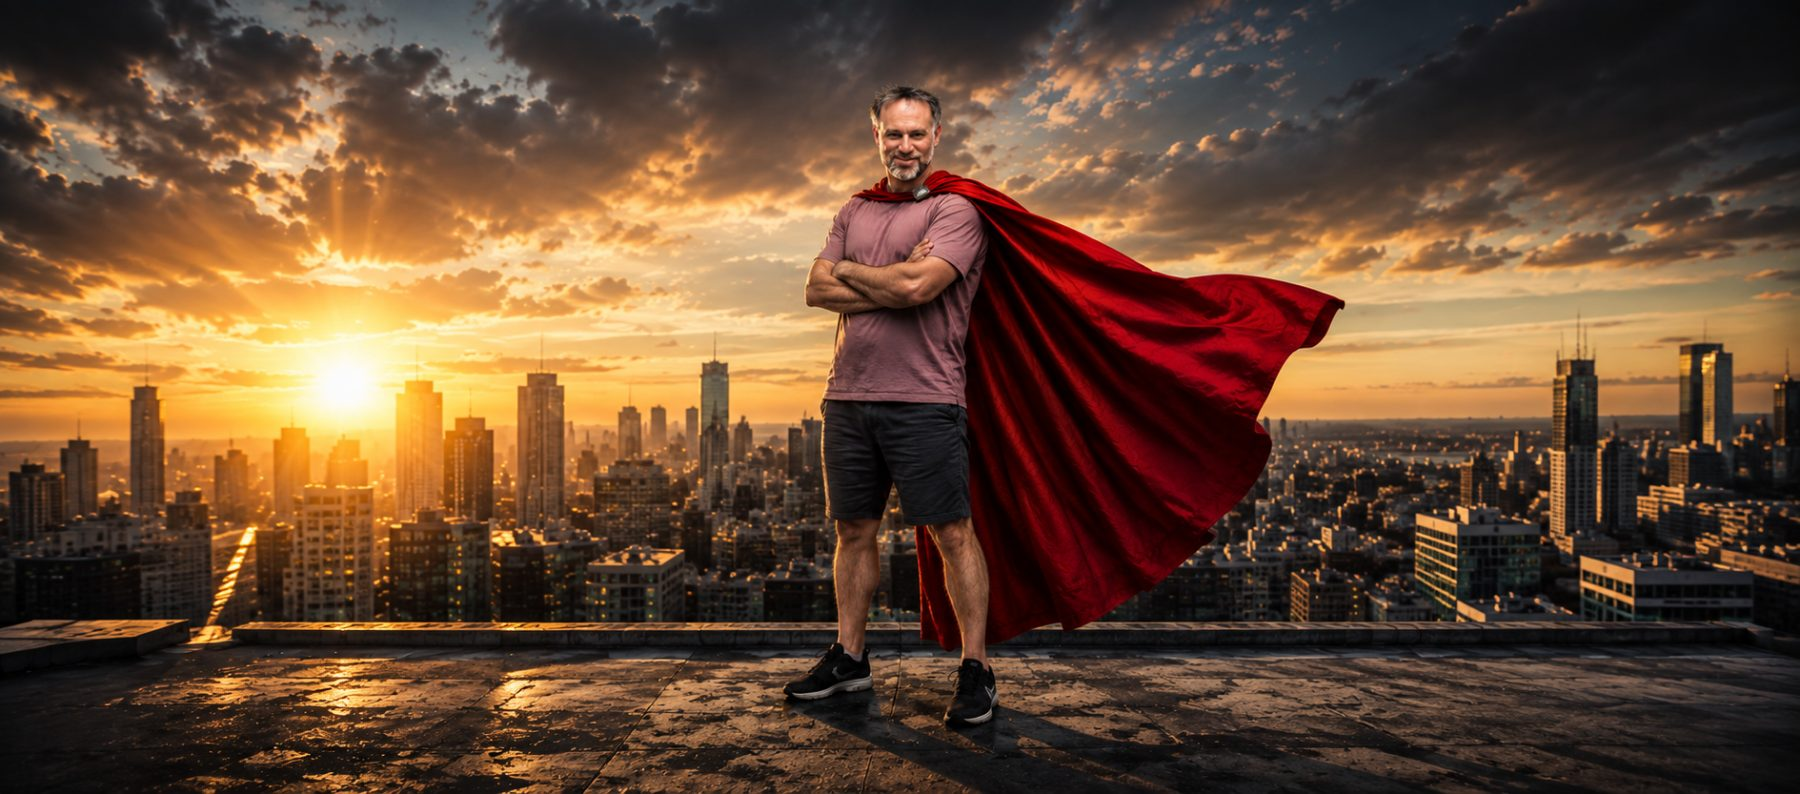
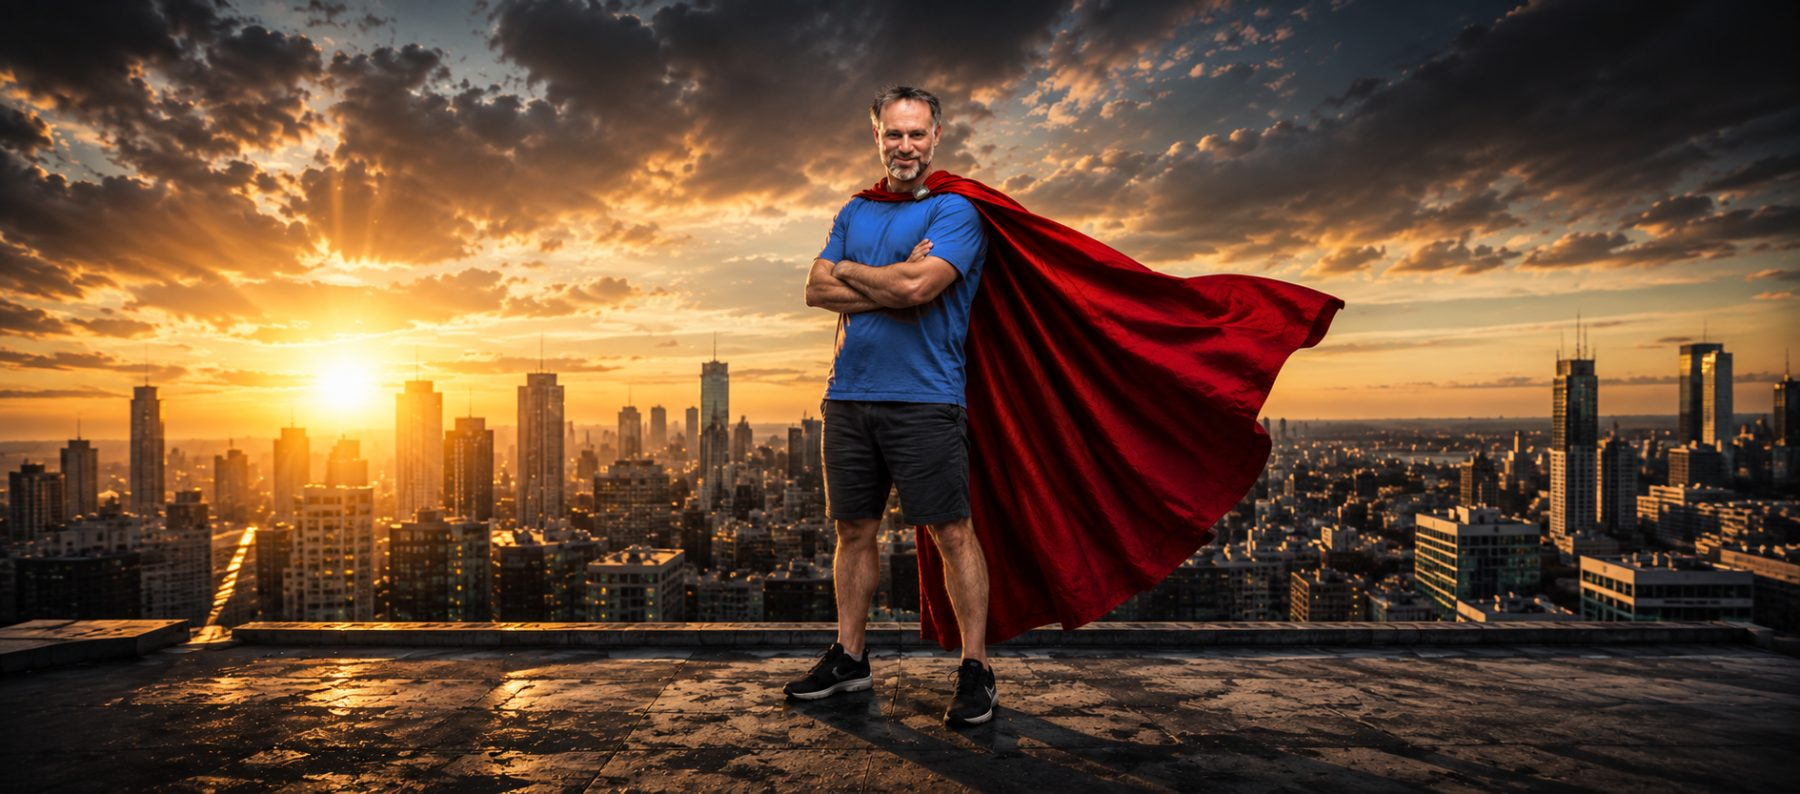
Recolour the hero shirt to navy
The mauve shirt sat in the same warm register as the sunset behind it, so
the figure never separated from his background. Navy is a cold note in a
frame that has none, and the red cape still reads against it.

Skin and that mauve are almost the same RGB — chest [183,120,118] against
forearm [162,104,74] — so neither brightness nor hue distance separates
them. What does: skin carries a yellow cast and the shirt does not. Measured
as G-B, skin runs +27 to +30 across face and arms while the shirt runs -4 to
+2. Two further terms drop the rest, the cape being nearly pure red (G under
10) and the shorts neutral (R-G about 2), and a flood fill from a seed in the
chest stops warm clouds that happen to pass the colour test from being
recoloured with it. The mask lands at ~23,000 px.

The recolour replaces hue and saturation but keeps each pixel's own
lightness, so the folds and shading survive and the fabric still reads as
fabric. The mask edge is feathered by neighbour count rather than cut hard.

Regenerated from the original PNG at 82ee12d rather than from the shipped
JPEG, so the resize and the JPEG encode each happen once and no second
generation of compression is stacked on the first. Same 221 KB.

Verified at 6x zoom that the crossed forearms are untouched — what looked
like a leak in the first pass is shirt visible behind the arm. Suite passes
at every width in both languages; page still transfers 412 KB.
[…]

Changed region(s): [[0.4356, 0.2418, 0.56, 0.5139]]

diff --git a/assets/README.md b/assets/README.md
@@ -39,6 +39,29 @@ If you replace it, a **wider-than-tall image with a quiet area on one side**
 is what this layout wants. Something closer to 16:9 would survive the phone
 crop and could stay a full-bleed backdrop throughout.
 
+### The shirt is recoloured
+
+The shirt in `hero.jpg` is navy; in the uploaded original it is dusty mauve.
+It was recoloured here, not re-shot.
+
+Skin and that mauve are almost the same RGB — chest `[183,120,118]` against
+forearm `[162,104,74]` — so brightness or hue distance alone cannot separate
+them. What does: **skin carries a yellow cast and the shirt does not.**
+Measured as G−B, skin runs +27 to +30 across face and arms, the shirt −4 to
++2. Two more terms exclude the rest: the cape is nearly pure red (G under
+10), the shorts are neutral (R−G ≈ 2). A flood fill from a seed in the chest
+then keeps warm clouds that happen to pass the colour test from being
+recoloured too. The mask lands at ~23,000 px.
+
+Recolouring replaces hue and saturation but **keeps each pixel's own
+lightness**, which is what preserves the folds and the shading — the fabric
+still reads as fabric rather than a flat fill. The edge is feathered by
+neighbour count so it does not look like a sticker.
+
+To change it again, or to put the mauve back, the original is in git at
+`82ee12d` and the recolour runs from that lossless source in one pass —
+resize and JPEG encode happen once, so there is no second generation of loss.
+
 ### Why JPEG
 
 It arrived as a 2.1 MB PNG. PNG is lossless and meant for flat colour and
